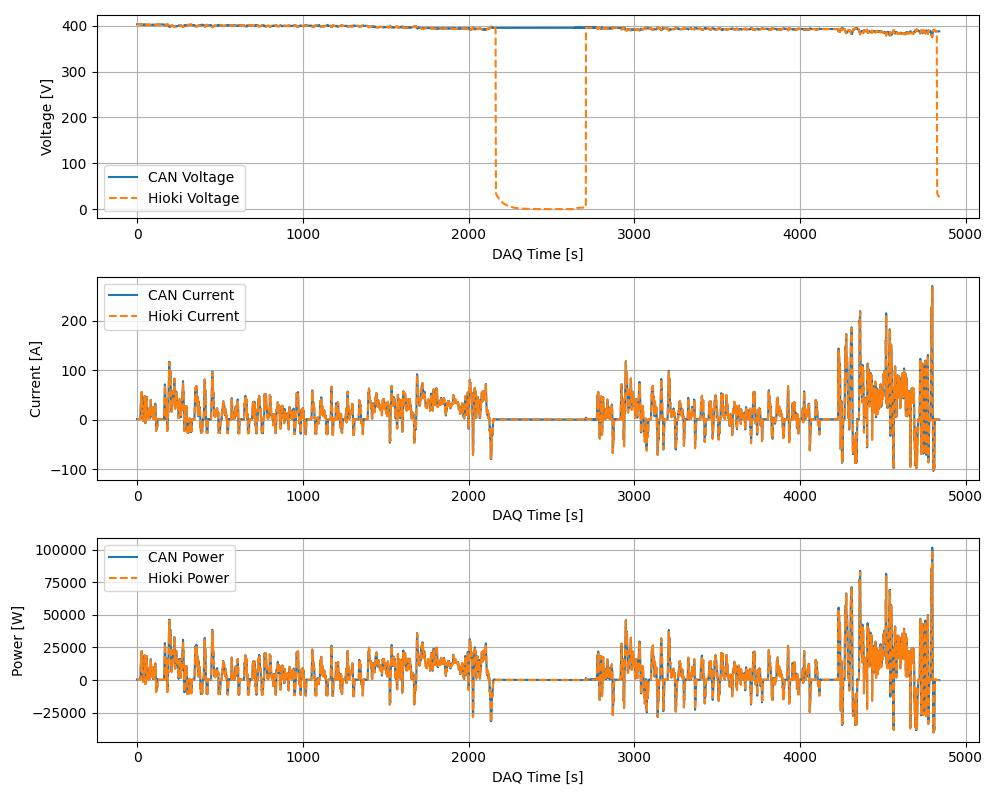
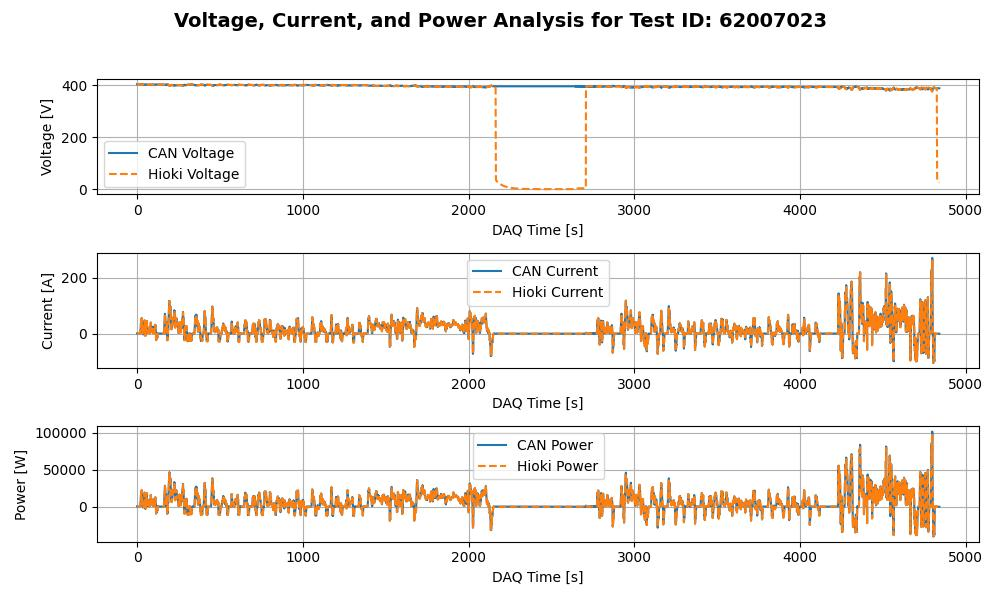
updated logic to plot linear fit

Changed region(s): [[0.0, 0.0, 0.992, 0.96], [0.496, 0.96, 0.589, 0.99]]

diff --git a/src/tools/uncertainty-analysis/HiokiCANAnalyzer.py b/src/tools/uncertainty-analysis/HiokiCANAnalyzer.py
@@ -42,7 +42,7 @@ class HiokiCANAnalyzer:
         self.output_file_path = output_file_path
         self.plot_directory = plot_directory
         self.hioki_can_analysis_sheet_name = sheet_name
-        self.image_position_List = ['A5', 'A30', 'K5', 'K30', 'U5', 'U30']
+        self.image_position_List = ['A5', 'A40', 'S5', 'S40', 'AK5', 'AK40', 'BC5','BC40', 'BV5','BV40']
         self.image_position_index = -1
         
         # Validate workbook
@@ -71,7 +71,7 @@ class HiokiCANAnalyzer:
         
         self.set_tdms_data_directory()
         
-        for test_id in test_id_list:
+        for test_id in self.test_id_list:
             self.tdms_file_path = self.tdms_data_directory + f"/{test_id} Test Data.tdms"
             print(f"Conducting Linear Fit Analysis for '{self.tdms_file_path}' TDMS file")
             
@@ -117,7 +117,9 @@ class HiokiCANAnalyzer:
             # Compute Hioki integrated power in kW by removing initial power
             hioki_inP = (hioki_WP1[start_index:] - hioki_WP1[start_index]) / 1000
             
-            percentage_of_error = (can_power_integrated - hioki_inP) / hioki_inP
+            # percentage_of_error = (can_power_integrated - hioki_inP) / hioki_inP
+            with np.errstate(divide='ignore', invalid='ignore'):
+                percentage_of_error = np.where(hioki_inP != 0, (can_power_integrated - hioki_inP) / hioki_inP, 0)
 
             # Filter logical conndition to address edge condition
             filter_condition = (hv_batt_power_filtered >= -np.inf) & (hioki_U1_filtered >= 250) & (Dyno_spd_filtered >= 0.01)
@@ -133,7 +135,7 @@ class HiokiCANAnalyzer:
 
     def plot_voltage_current_power(self, daqtime_filtered, hv_batt_voltage_filtered, hioki_U1_filtered, hv_batt_current_filtered, hioki_I1_filtered, hv_batt_power_filtered, hioki_P1_filtered, test_id):
  
-            plt.figure(figsize=(10, 8))
+            plt.figure(figsize=(10, 6))
 
             plt.subplot(3, 1, 1)
             plt.plot(daqtime_filtered, hv_batt_voltage_filtered, label="CAN Voltage")
@@ -159,7 +161,8 @@ class HiokiCANAnalyzer:
             plt.ylabel("Power [W]")
             plt.legend()
 
-            plt.tight_layout()
+            plt.suptitle(f"Voltage, Current, and Power Analysis for Test ID: {test_id}", fontsize=14, fontweight="bold")
+            plt.tight_layout(rect=[0, 0, 1, 0.95])  # Adjust layout to make room for the title
             # plt.show()
             # Save the chart as an image and close the plot
             chart_name = f'{test_id}_voltage_current_power_plot.jpg'
@@ -170,7 +173,7 @@ class HiokiCANAnalyzer:
             # Insert the chart image into the workbook at the specified cell
             self.image_position_index += 1
             img = Image(chart_path)
-            self.sheet.add_image(img, self.image_position_index) 
+            self.sheet.add_image(img, self.image_position_List[self.image_position_index]) 
 
     def plot_linear_fit(self, datasets, test_id):
         """
@@ -179,7 +182,7 @@ class HiokiCANAnalyzer:
         Parameters:
         datasets (list of tuples): Each tuple contains (x, y, xlabel, ylabel).
         """
-        fig, axs = plt.subplots(2, 2, figsize=(12, 8))
+        fig, axs = plt.subplots(2, 2, figsize=(10, 6))
 
         for ax, (x, y, xlabel, ylabel) in zip(axs.flat, datasets):
             # Linear regression
@@ -204,7 +207,7 @@ class HiokiCANAnalyzer:
             # Scatter plot and regression line
             ax.scatter(x, y, s=10, label="Data")
             ax.plot(x, slope * x + intercept, "r-", label=f"Fit: y={slope:.2f}x + {intercept:.2f}")
-
+            ax.set_title(f'Linear Fit Plot for Test ID: {test_id}')
             # Axis labels
             ax.set_xlabel(xlabel)
             ax.set_ylabel(ylabel)
@@ -232,7 +235,7 @@ class HiokiCANAnalyzer:
         # Insert the chart image into the workbook at the specified cell
         self.image_position_index += 1
         img = Image(chart_path)
-        self.sheet.add_image(img, self.image_position_index)
+        self.sheet.add_image(img, self.image_position_List[self.image_position_index])
 
     def __del__(self):
         """
@@ -255,3 +258,4 @@ if __name__ == "__main__":
     # test_id_list = [62005016, 62005018]
     hioki_CAN_analyzer = HiokiCANAnalyzer(test_id_list, output_file_path, plot_directory, sheet_name)
     hioki_CAN_analyzer.manage_linear_fit_analysis()
+    del hioki_CAN_analyzer
